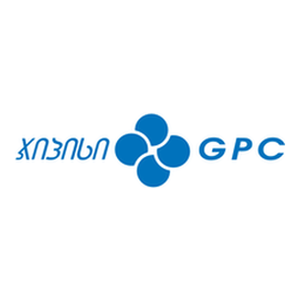
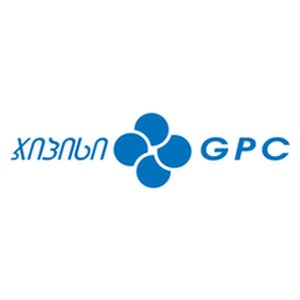
Scale up GPC (1.4x), Pharmadepot (1.4x), Todua Clinic (1.3x)
These 3 logos are naturally horizontal/wide — CSS scale makes
them visually larger inside hexagons without changing other logos.

diff --git a/index.html b/index.html
@@ -579,13 +579,13 @@
         <!-- Row 1 — 4 hexagons -->
         <div class="flex gap-1 md:gap-2">
           <div class="hex-cell relative w-20 h-20 sm:w-24 sm:h-24 md:w-32 md:h-32 flex items-center justify-center group cursor-default">
-            <img src="images/clients/gpc.png?v=5" alt="GPC" class="relative z-10 w-[78%] h-[68%] object-contain">
+            <img src="images/clients/gpc.png?v=5" alt="GPC" class="relative z-10 w-[78%] h-[68%] object-contain scale-[1.4]">
           </div>
           <div class="hex-cell relative w-20 h-20 sm:w-24 sm:h-24 md:w-32 md:h-32 flex items-center justify-center group cursor-default">
-            <img src="images/clients/pharmadepot.png?v=5" alt="ფარმადეპო" class="relative z-10 w-[78%] h-[68%] object-contain">
+            <img src="images/clients/pharmadepot.png?v=5" alt="ფარმადეპო" class="relative z-10 w-[78%] h-[68%] object-contain scale-[1.4]">
           </div>
           <div class="hex-cell relative w-20 h-20 sm:w-24 sm:h-24 md:w-32 md:h-32 flex items-center justify-center group cursor-default">
-            <img src="images/clients/todua-clinic.png?v=5" alt="თოდუას კლინიკა" class="relative z-10 w-[78%] h-[68%] object-contain">
+            <img src="images/clients/todua-clinic.png?v=5" alt="თოდუას კლინიკა" class="relative z-10 w-[78%] h-[68%] object-contain scale-[1.3]">
           </div>
           <div class="hex-cell relative w-20 h-20 sm:w-24 sm:h-24 md:w-32 md:h-32 flex items-center justify-center group cursor-default">
             <img src="images/clients/irao.png?v=5" alt="IRAO" class="relative z-10 w-[78%] h-[68%] object-contain">
